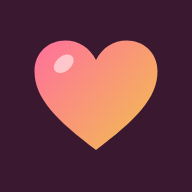
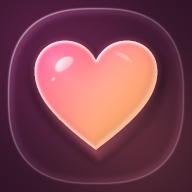
升級 3D Liquid Glass 液態玻璃 App 圖示與進入基地畫面

diff --git a/style.css b/style.css
@@ -338,11 +338,13 @@ details.rules summary{font-weight:700;cursor:pointer}
 details.rules ol{margin:10px 0 4px;padding-left:1.4em}
 .toast{position:fixed;left:50%;bottom:calc(20px + env(safe-area-inset-bottom,0px));transform:translateX(-50%);background:var(--fg);color:var(--bg);padding:10px 18px;border-radius:99px;font-weight:700;font-size:14px;z-index:20;max-width:calc(100% - 32px)}
 @media (max-width:859px){.toast{bottom:calc(84px + env(safe-area-inset-bottom,0px))}}
-.gate{position:fixed;inset:0;background:color-mix(in srgb,var(--bg) 92%,transparent);backdrop-filter:blur(6px);z-index:30;display:grid;place-items:center;padding:16px}
-.pick{display:grid;grid-template-columns:1fr 1fr;gap:8px}
-.pick button{border:2px solid var(--line);background:var(--bg);color:var(--fg);border-radius:12px;padding:12px 8px;font-size:16px;font-weight:700}
-.pick button[aria-pressed="true"]{border-color:var(--pink);background:var(--pink-soft);color:var(--pink)}
-.gate-box{background:var(--glass-bg);-webkit-backdrop-filter:var(--glass-blur);backdrop-filter:var(--glass-blur);border:1px solid var(--line);box-shadow:var(--card-shadow);border-radius:24px;padding:24px;max-width:420px;width:100%;display:flex;flex-direction:column;gap:12px}
+.gate{position:fixed;inset:0;background:radial-gradient(circle at 20% 20%,rgba(255,105,160,.28),transparent 48%),radial-gradient(circle at 80% 80%,rgba(255,190,95,.24),transparent 48%),color-mix(in srgb,var(--bg) 82%,transparent);-webkit-backdrop-filter:blur(20px) saturate(180%);backdrop-filter:blur(20px) saturate(180%);z-index:30;display:grid;place-items:center;padding:16px}
+.pick{display:grid;grid-template-columns:1fr 1fr;gap:10px}
+.pick button{border:1px solid var(--line);background:var(--sunk);-webkit-backdrop-filter:blur(12px);backdrop-filter:blur(12px);color:var(--fg);border-radius:14px;padding:12px 8px;font-size:16px;font-weight:700;box-shadow:var(--glass-rim),0 4px 12px -2px rgba(0,0,0,.08)}
+.pick button[aria-pressed="true"]{border-color:var(--pink);background:linear-gradient(135deg,var(--pink-soft),color-mix(in srgb,var(--pink) 24%,var(--surface)));color:var(--pink);box-shadow:var(--glass-rim),0 6px 18px -4px color-mix(in srgb,var(--pink) 38%,transparent)}
+.gate-box{background:radial-gradient(circle at 88% 12%,rgba(255,105,160,.28),transparent 52%),radial-gradient(circle at 12% 90%,rgba(255,198,92,.24),transparent 52%),var(--glass-bg);-webkit-backdrop-filter:blur(28px) saturate(195%);backdrop-filter:blur(28px) saturate(195%);border:1px solid var(--line);box-shadow:var(--card-shadow);border-radius:26px;padding:26px 24px;max-width:420px;width:100%;display:flex;flex-direction:column;gap:14px}
+.gate-logo{width:76px;height:76px;border-radius:20px;align-self:center;box-shadow:var(--glass-rim),0 12px 28px -6px rgba(226,69,122,.38);border:1px solid rgba(255,255,255,.35)}
+.gate-box h2{justify-content:center}
 .ph-pair{display:grid;grid-template-columns:repeat(2,1fr);gap:8px}
 .ph-slot{aspect-ratio:1;max-width:100%;border-radius:16px;background:var(--glass-bg);-webkit-backdrop-filter:var(--glass-blur);backdrop-filter:var(--glass-blur);box-shadow:var(--card-shadow);border:2px dashed var(--pink);display:grid;place-items:center;overflow:hidden;position:relative;color:var(--pink);font-size:14px;font-weight:700;text-align:center;padding:0;line-height:1.5}
 .ph-slot.wait{border-color:var(--line);color:var(--muted);font-weight:500}

diff --git a/index.html b/index.html
@@ -5,7 +5,7 @@
 <meta name="viewport" content="width=device-width,initial-scale=1,viewport-fit=cover">
 <title>我們的戀愛遊戲基地</title>
 <link rel="manifest" href="manifest.webmanifest">
-<link rel="apple-touch-icon" href="apple-touch-icon.png">
+<link rel="apple-touch-icon" href="apple-touch-icon.png?v=23">
 <meta name="apple-mobile-web-app-capable" content="yes">
 <meta name="mobile-web-app-capable" content="yes">
 <meta name="apple-mobile-web-app-title" content="戀愛基地">
@@ -14,7 +14,7 @@
 <meta name="theme-color" media="(prefers-color-scheme: dark)" content="#1a1117">
 <link rel="preconnect" href="https://fonts.googleapis.com">
 <link rel="stylesheet" href="https://fonts.googleapis.com/css2?family=Bagel+Fat+One&display=swap">
-<link rel="stylesheet" href="style.css?v=22">
+<link rel="stylesheet" href="style.css?v=23">
 </head>
 <body>
 
@@ -336,6 +336,7 @@
 
 <div class="gate" id="gate" hidden>
   <form class="gate-box" id="gateForm" autocomplete="off">
+    <img class="gate-logo" src="icon-192.png?v=23" alt="" width="76" height="76">
     <h2>🔐 進入你們的基地</h2>
     <p class="sub">兩個人輸入同一組暗號，就會進到同一個基地、看到同一份進度。暗號只有你們知道，別人猜不到就進不來。</p>
     <label>暗號<input id="gateCode" placeholder="例：bear-and-bunny-2026"></label>
@@ -361,6 +362,6 @@ const FIREBASE_CONFIG = {
   appId: "1:252296258877:web:a2e5600c3d5e693361d154"
 };
 </script>
-<script src="app.js?v=22"></script>
+<script src="app.js?v=23"></script>
 </body>
 </html>

diff --git a/sw.js b/sw.js
@@ -1,5 +1,5 @@
 // 讓網站沒網路也打得開：網頁永遠先拿最新版，拿不到才用存下來的
-const CACHE = "love-base-v22";
+const CACHE = "love-base-v23";
 const SHELL = ["./", "./style.css", "./app.js", "./questions.json", "./manifest.webmanifest", "./icon-192.png", "./icon-512.png", "./apple-touch-icon.png"];
 const LIBS = [
   "https://www.gstatic.com/firebasejs/10.12.2/firebase-app-compat.js",
